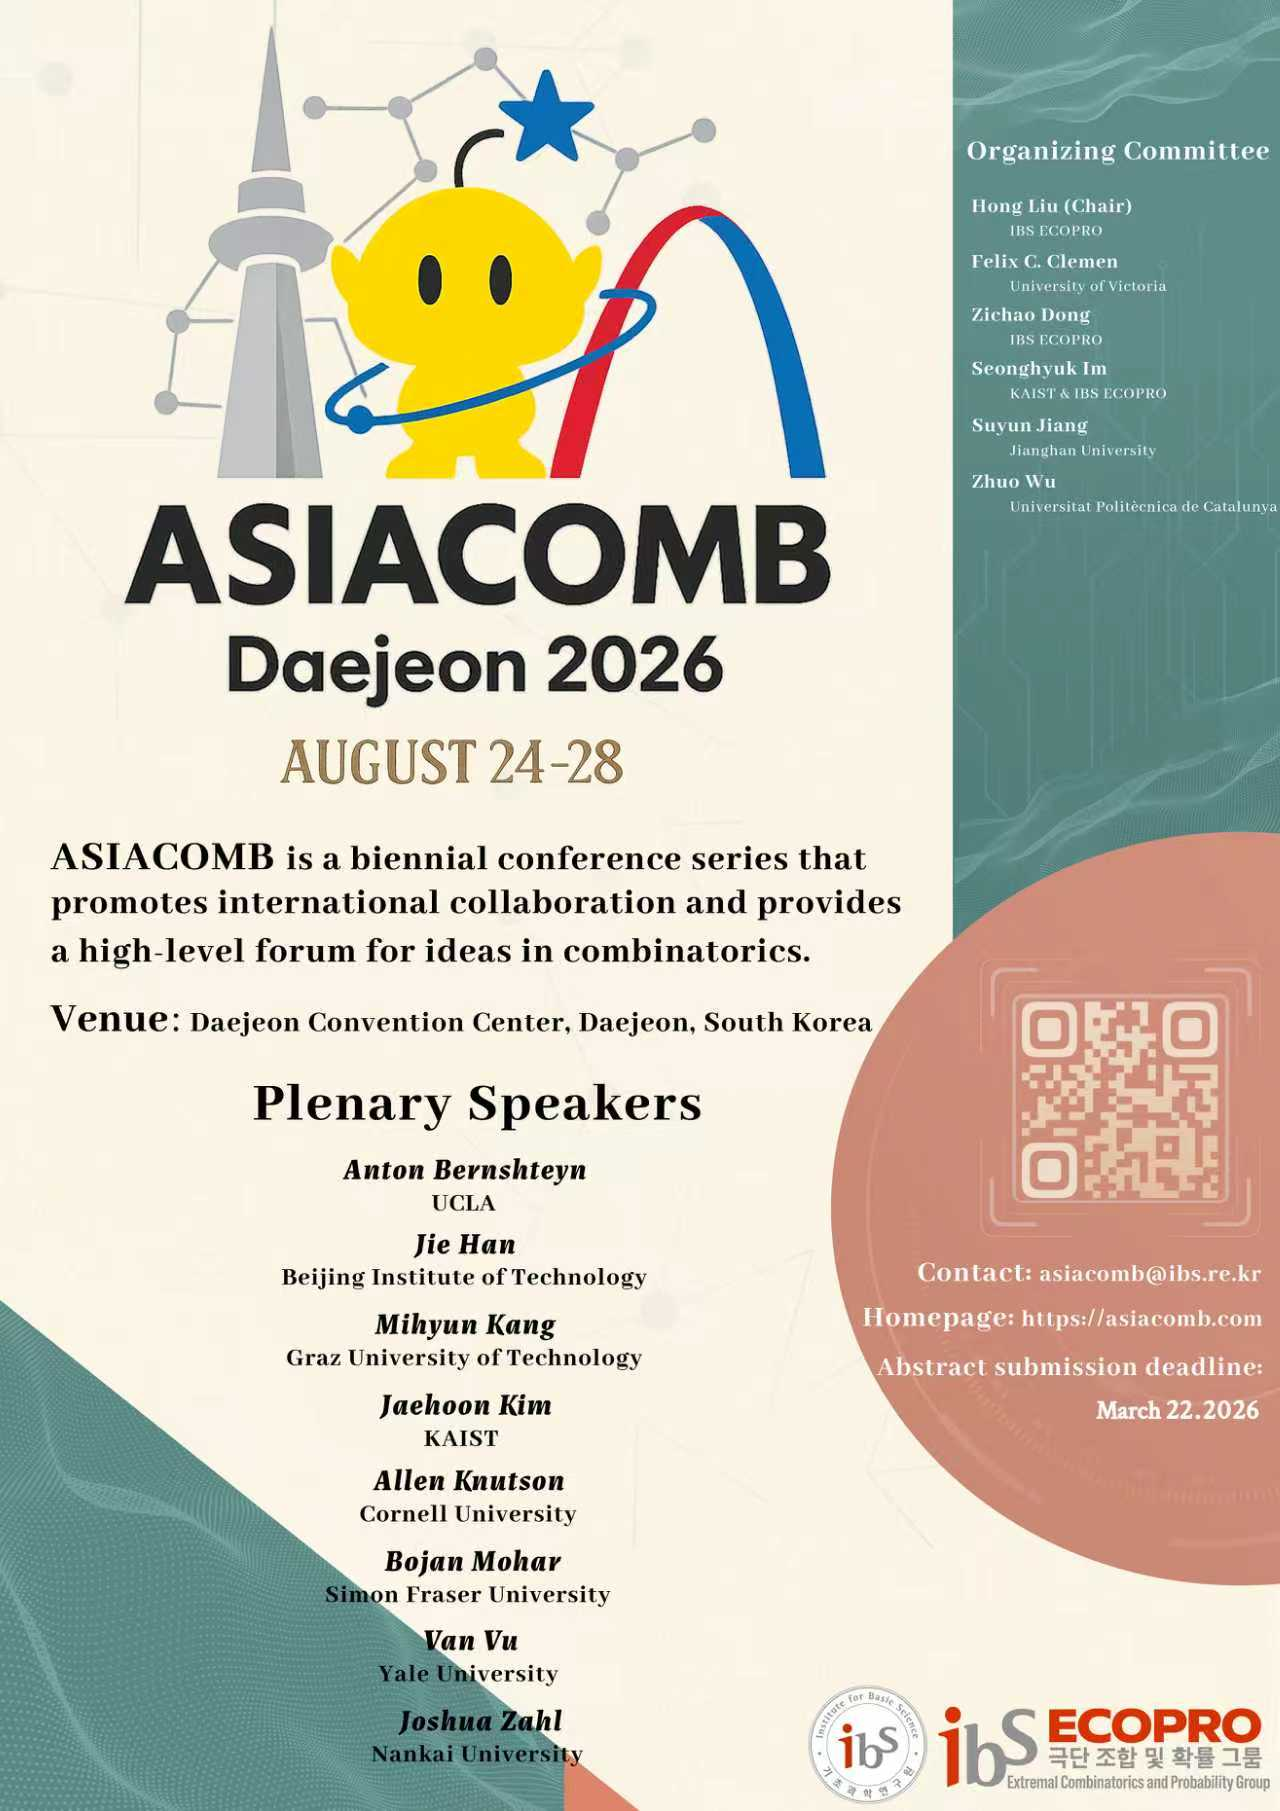
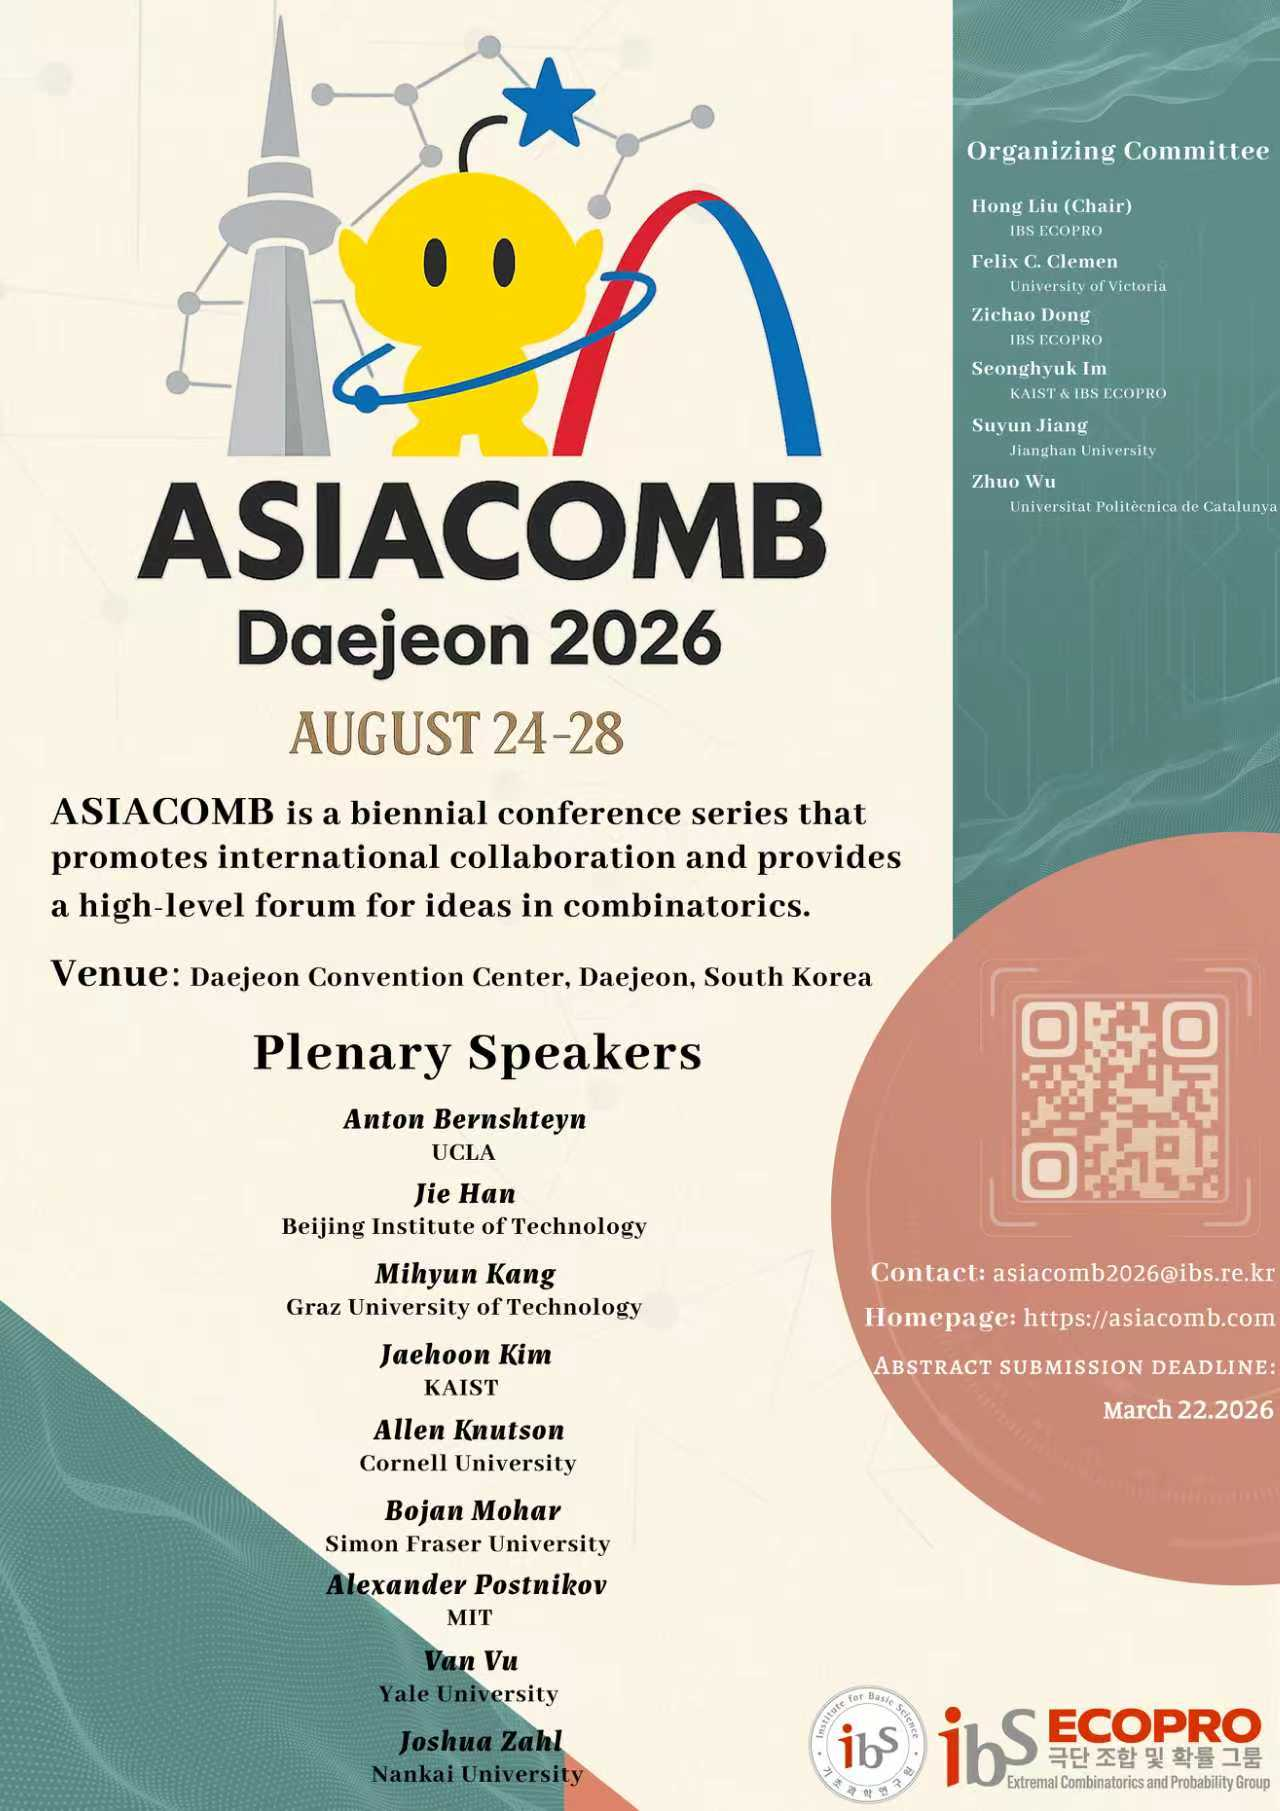
updating_poster

Changed region(s): [[0.0312, 0.0, 0.7188, 0.9895], [0.6875, 0.6803, 1.0, 0.804]]

diff --git a/index.md b/index.md
@@ -20,7 +20,7 @@ Conference: August 24-28, 2026
  
 Nominations for the Asian Prize in Combinatorics: T.B.A.
 
-Nominations for the Prize should be sent to <asiacomb@ibs.re.kr>. Detail information about the Prize will be provided soon.
+Nominations for the Prize should be sent to <asiacomb2026@ibs.re.kr>. Detail information about the Prize will be provided soon.
 
 
 ## Plenary Speakers
@@ -64,7 +64,7 @@ The conference will be held at the Daejeon Convention Center (DCC) in Daejeon, S
 For more information about the venue and accommodation, please visit the [Location](/location/) page.
 
 ### Contact
-For any inquiries, please contact us at <asiacomb@ibs.re.kr>.
+For any inquiries, please contact us at <asiacomb2026@ibs.re.kr>.
 
 ![lh](/assets/images/poster.jpg)
 

diff --git a/Registration/index.md b/Registration/index.md
@@ -40,4 +40,4 @@ T.B.A.
 T.B.A.
 -->
 
-For any inquiries regarding registration, please contact us at <asiacomb@ibs.re.kr>.
+For any inquiries regarding registration, please contact us at <asiacomb2026@ibs.re.kr>.
